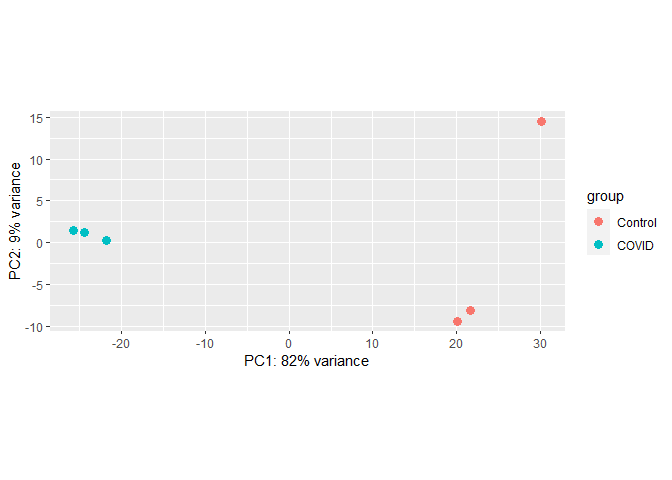
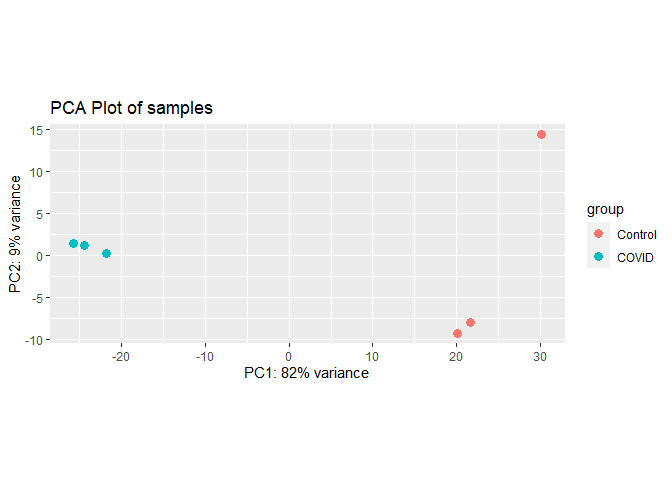
Added titles to plot

diff --git a/DESeq2_Pathway/DEA_DESeq2.md b/DESeq2_Pathway/DEA_DESeq2.md
@@ -1,5 +1,7 @@
-Differential Expression Analysis using DESeq2
+Differential Expression Analysis using DESeq2, Pathway mapping and GO
+enrichment
 ================
+Chandan Pavuluri
 
 ``` r
 #Create a folder for the input files and results of the analysis
@@ -106,14 +108,14 @@ n=6
 if (n<50){
 rld <- rlog(dds, blind = T)
 #png(paste0(path,"PCA_DESeq2",Input,".png"), 700, 500, pointsize=20)
-pca <- plotPCA(rld, intgroup="Condition")
+pca <- plotPCA(rld, intgroup="Condition")+ ggtitle("PCA Plot of samples")
 print(pca)
 #dev.off()
 
 }else{
 vsd <- varianceStabilizingTransformation(dds, blind=T)
 #png(paste0(path,"PCA_DESeq2",Input,".png"), 700, 500, pointsize=20)
-pca <- plotPCA(vsd, intgroup="Condition")
+pca <- plotPCA(vsd, intgroup="Condition")+ ggtitle("PCA Plot of samples")
 print(pca)
 #dev.off()
 }
@@ -125,7 +127,8 @@ print(pca)
 
 ``` r
 #png(paste0(path,"Boxplot_DESeq2",Input,".png"), 700, 500, pointsize=20)
-boxplot(log10(assays(dds)[["cooks"]]), range=0, las=2)
+boxplot(log10(assays(dds)[["cooks"]]), range=0, las=2) 
+title("Box plot of cook's distances")
 ```
 
 ![](DEA_DESeq2_files/figure-gfm/unnamed-chunk-7-1.png)<!-- -->
@@ -144,7 +147,7 @@ rownames(sampleDistMatrix) <- rld$Condition
 colnames(sampleDistMatrix) <- rld$Condition
 #png(paste0(path,"Heatmap_DESeq2",Input,".png"), 700, 500, pointsize=20)
 pheatmap(sampleDistMatrix,clustering_distance_rows=sampleDists,
-         clustering_distance_cols=sampleDists)
+         clustering_distance_cols=sampleDists, main = "Heatmap_clustering")
 
 }else{
 sampleDists <- dist(t(assay(vsd)))
@@ -153,7 +156,7 @@ rownames(sampleDistMatrix) <- vsd$Labels
 colnames(sampleDistMatrix) <- vsd$Condition
 # png(paste0(path,"Heatmap_DESeq2",Input,".png"), 700, 500, pointsize=20)
 pheatmap(sampleDistMatrix,clustering_distance_rows=sampleDists,
-         clustering_distance_cols=sampleDists)
+         clustering_distance_cols=sampleDists, main = "Heatmap_clustering")
 }
 ```
 
@@ -212,6 +215,7 @@ print(volcano_plot)
 ``` r
 #png(paste0(path,"MAPlot_DESeq2",Input,".png"), 700, 500, pointsize=20)
 DESeq2::plotMA(res,alpha=0.01, ylim=c(-6,6),colSig = "red3")
+title("MA plot")
 ```
 
 ![](DEA_DESeq2_files/figure-gfm/unnamed-chunk-11-1.png)<!-- -->
@@ -311,13 +315,6 @@ head(Down_genes)
 ``` r
 #KEGG Enrichment Analysis of a upregulate
 kegg_up <- enrichKEGG(gene = UP_genes,organism = 'hsa',pvalueCutoff = 0.05,pAdjustMethod = "BH")
-```
-
-    ## Reading KEGG annotation online:
-    ## 
-    ## Reading KEGG annotation online:
-
-``` r
 kegg_up_pathways <- data.frame(summary(kegg_up))
 head(kegg_up_pathways)
 ```

diff --git a/edgeR/DEA_edgeR.md b/edgeR/DEA_edgeR.md
@@ -1,5 +1,6 @@
 Differential Expression Analysis using edgeR
 ================
+Chandan Pavuluri
 
 ``` r
 #Create a folder for the input files and results of the analysis
@@ -76,6 +77,7 @@ colors <- rep(c("red", "blue"),1)
 #png(paste0(path,"/MDS_",Input,"_edgeR.png"), 700, 500, pointsize=20)
 plotMDS(dge, col=colors[factor(meta_data[,2])], pch=pch[factor(meta_data[,2])])
 legend("topleft", legend=levels(factor(meta_data[,2])),pch=pch, col=colors, ncol=2)
+title("MDS plot")
 ```
 
 ![](DEA_edgeR_files/figure-gfm/unnamed-chunk-5-1.png)<!-- -->
